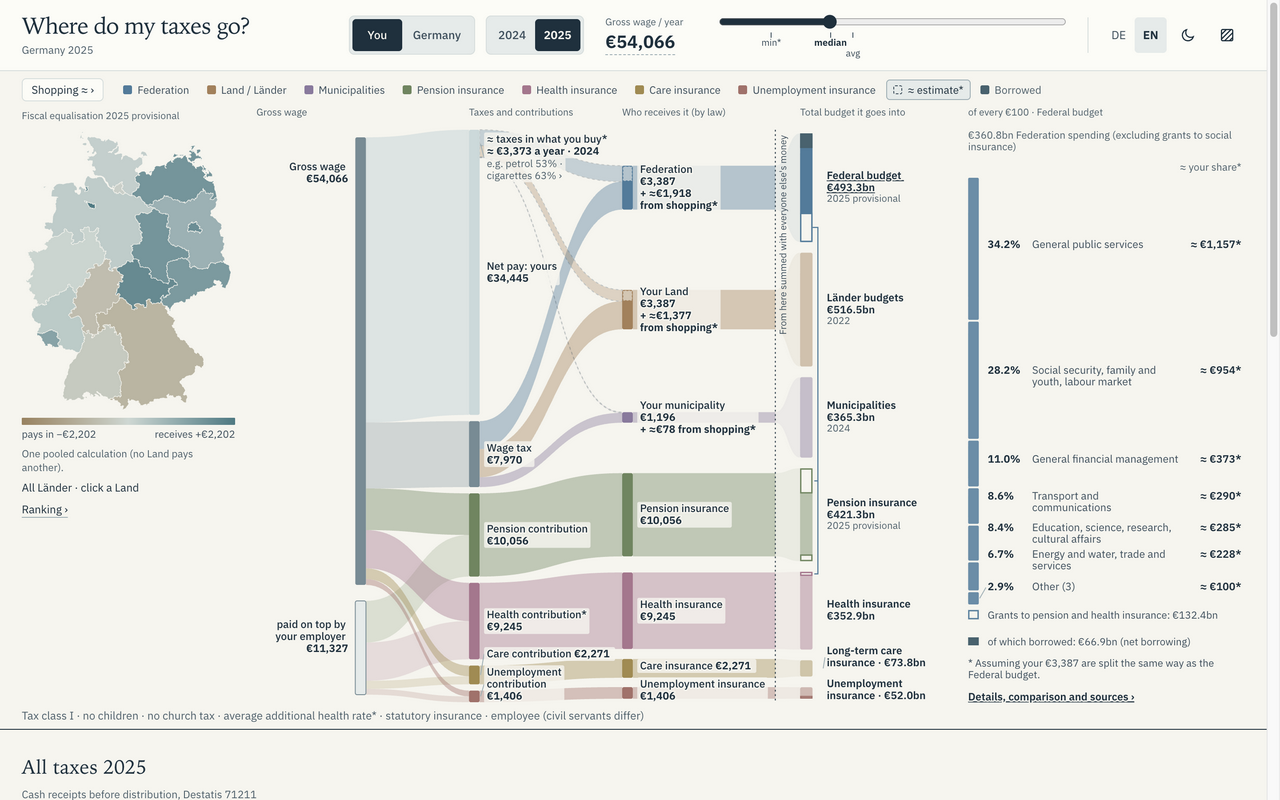
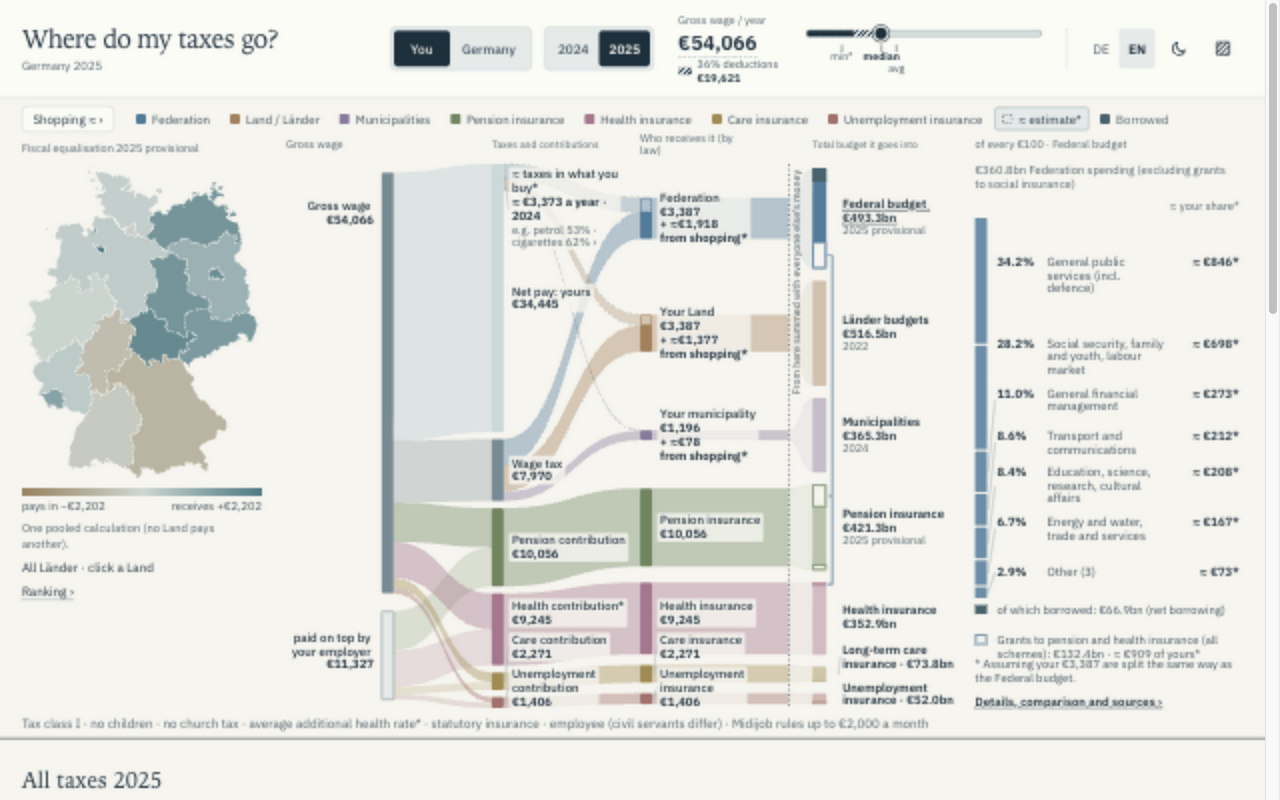
Refresh README screenshot in English and light mode

diff --git a/README.md b/README.md
@@ -26,11 +26,8 @@ Everyone should be able to see where their taxes go. And AI does the tedious wor
   <img alt="Opus said OK." src="https://img.shields.io/badge/Sol_6.1-OK-green?logo=openaigym">
 </p>
 
-<a href="https://ax6.github.io/where-is-the-tax/#lang=en&y=2025">
-  <picture>
-    <source media="(prefers-color-scheme: dark)" srcset="docs/screenshots/readme-dark.png">
-    <img src="docs/screenshots/readme-light.png" alt="The tax explorer: a map of Germany beside flows from gross salary through taxes and social contributions to their recipients, with a spending breakdown for the selected budget." width="1440">
-  </picture>
+<a href="https://ax6.github.io/where-is-the-tax/#lang=en&y=2025&theme=light">
+  <img src="docs/screenshots/readme-light.png" alt="The tax explorer: a map of Germany beside flows from gross salary through taxes and social contributions to their recipients, with a spending breakdown for the selected budget." width="1440">
 </a>
 
 <p align="center"><sub>The live explorer · 2025 view · captured 13 October 2026 · click to explore</sub></p>
